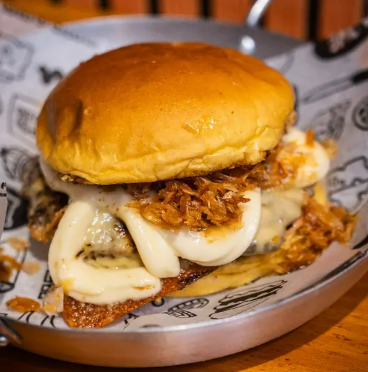
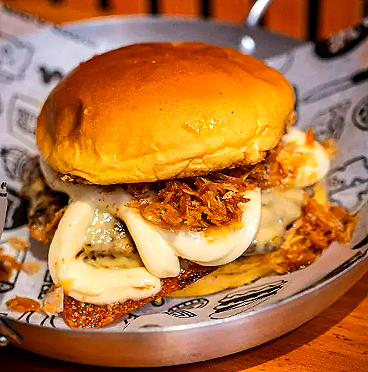
feat: enhance photo grading and add card hover zoom for a more premium feel
Reprocessed all 27 product photos with a consistent color grade
(contrast, saturation, brightness) plus a gentle sharpen convolution
to make them look punchier and more professional, closer to real
food-photography editing. The originals are recoverable from git
history if this look needs tuning.

Also added a subtle image zoom on hover for product and promo cards,
a common modern e-commerce touch that was missing.

diff --git a/assets/css/styles.css b/assets/css/styles.css
@@ -225,7 +225,8 @@ button { font-family: var(--font-body); cursor: pointer; }
   overflow: hidden;
 }
 .product-card__image--photo { background: var(--color-brown-dark); }
-.product-card__image img { width: 100%; height: 100%; object-fit: cover; }
+.product-card__image img { width: 100%; height: 100%; object-fit: cover; transition: transform 0.35s ease; }
+.product-card:hover .product-card__image img { transform: scale(1.08); }
 .product-card__body { padding: var(--space-3); flex: 1; display: flex; flex-direction: column; }
 .product-card__name { margin-bottom: var(--space-1); }
 .product-card__description { font-size: 0.85rem; opacity: 0.8; flex: 1; }
@@ -249,9 +250,12 @@ button { font-family: var(--font-body); cursor: pointer; }
 .promo-card {
   background: linear-gradient(135deg, var(--color-terracotta-dark), var(--color-brown-dark));
   border-radius: var(--radius-lg); overflow: hidden; position: relative; display: flex; flex-direction: column;
+  transition: transform 0.2s ease;
 }
+.promo-card:hover { transform: translateY(-4px); }
 .promo-card__image { aspect-ratio: 16/9; display: flex; align-items: center; justify-content: center; font-size: 3rem; background: rgba(0,0,0,0.2); overflow: hidden; }
-.promo-card__image img { width: 100%; height: 100%; object-fit: cover; }
+.promo-card__image img { width: 100%; height: 100%; object-fit: cover; transition: transform 0.35s ease; }
+.promo-card:hover .promo-card__image img { transform: scale(1.08); }
 .promo-card__body { padding: var(--space-4); }
 .promo-card__prices { display: flex; align-items: baseline; gap: var(--space-2); margin: var(--space-2) 0 var(--space-3); }
 .promo-card__price-original { text-decoration: line-through; opacity: 0.6; }
